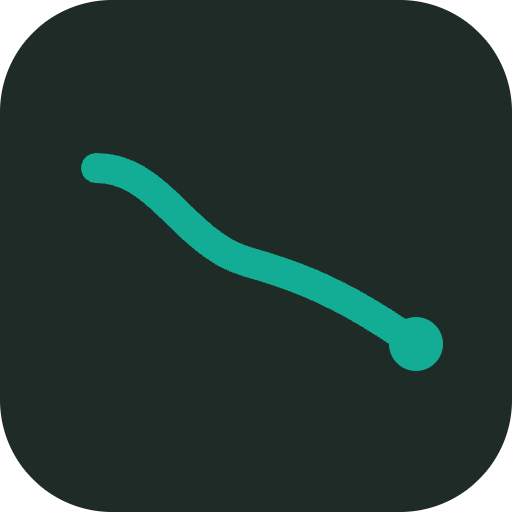
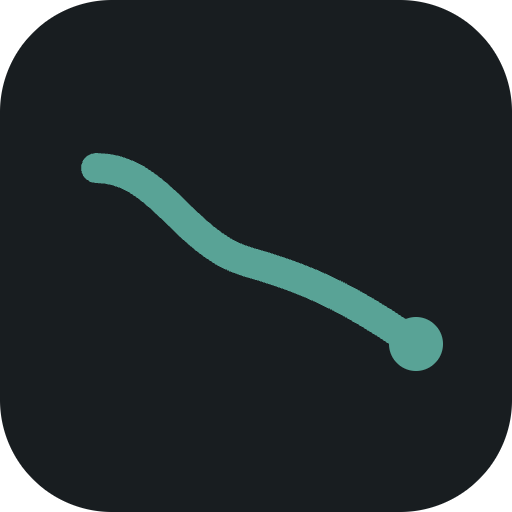
Mute the green
Same hue, about a third less chroma, a step darker. It was the one
saturated thing left on a screen that had just been quietened
everywhere else, so it read as loud rather than as the accent. The
darker step is a bonus: contrast against white goes from 3.97:1 to
5.29:1.

The two status greens come down with it, or the deltas would have sat
beside the trace looking like a different palette. The goal purple
stays where it is — its chroma is what keeps it separable from the
trace for a colour-blind reader, and it appears once, dashed and
labelled.

That puts the trace under the categorical chroma floor a multi-series
palette would need. Noted in NOTES with the reasoning: one series, and
the only other mark on the chart carries its own label.

Claude-Session: https://claude.ai/code/session_016d59AqZQ43XPJrf2bBTCk5

Changed region(s): [[0.1562, 0.2812, 0.875, 0.75]]

diff --git a/src/app/globals.css b/src/app/globals.css
@@ -30,18 +30,25 @@
 
   --on-tint: #181d20;
 
-  --trace: #00907f; /* weight line */
+  /* The one colour on screen, so it is a quiet one: same teal hue, about a
+     third less chroma and a step darker, which also lifts it from 3.97:1 to
+     5.29:1 against white. Deliberately under the categorical chroma floor a
+     multi-series palette would need — there is one series here, and the goal
+     line beside it is dashed and labelled. */
+  --trace: #2e776b; /* weight line */
+  /* Left saturated on purpose: it is what keeps the goal line separable from
+     the trace for a deutan reader (ΔE 8.5). It appears once, dashed. */
   --goal: #9a3ba0; /* goal horizon */
 
-  --down: #2f6f45; /* moving toward goal */
-  --up: #a2472c; /* moving away */
+  --down: #3a6d4a; /* moving toward goal */
+  --up: #97503c; /* moving away */
 
   /* Macro breakdown. Paired with gram labels, never carrying meaning alone. */
   --protein: #4e86e0;
   --carbs: #bf8c22;
   --fat: #ae5fb0;
 
-  --focus: #00907f;
+  --focus: #2e776b;
   --lift: 0 1px 2px rgb(20 26 30 / 0.04), 0 4px 16px rgb(20 26 30 / 0.05);
   --lift-sm: 0 1px 2px rgb(20 26 30 / 0.05);
 
@@ -67,17 +74,17 @@
   --ink-faint: #737e83;
   --rule: #262e33;
 
-  --trace: #12ad94;
+  --trace: #59a396;
   --goal: #be6fc9;
 
-  --down: #63c187;
-  --up: #e08a6a;
+  --down: #7ebc90;
+  --up: #d28974;
 
   --protein: #5a8ce6;
   --carbs: #c0871f;
   --fat: #be6480;
 
-  --focus: #12ad94;
+  --focus: #59a396;
   --lift: 0 1px 2px rgb(0 0 0 / 0.3), 0 4px 16px rgb(0 0 0 / 0.25);
   --lift-sm: 0 1px 2px rgb(0 0 0 / 0.3);
 
@@ -114,9 +121,9 @@ body {
      fill, so this gives the panels something to sit on without adding colour
      anyone would notice as colour. */
   background-image:
-    radial-gradient(58% 42% at 8% 4%, rgb(0 144 127 / 0.13) 0%, transparent 62%),
-    radial-gradient(52% 40% at 96% 22%, rgb(154 59 160 / 0.09) 0%, transparent 58%),
-    radial-gradient(64% 44% at 50% 102%, rgb(0 144 127 / 0.09) 0%, transparent 60%);
+    radial-gradient(58% 42% at 8% 4%, rgb(46 119 107 / 0.13) 0%, transparent 62%),
+    radial-gradient(52% 40% at 96% 22%, rgb(154 59 160 / 0.07) 0%, transparent 58%),
+    radial-gradient(64% 44% at 50% 102%, rgb(46 119 107 / 0.09) 0%, transparent 60%);
   background-attachment: fixed;
   color: var(--ink);
   font-family: var(--font-manrope), system-ui, sans-serif;
@@ -282,9 +289,9 @@ body {
   inset: -36px;
   background-color: var(--ground);
   background-image:
-    radial-gradient(58% 42% at 8% 4%, rgb(0 144 127 / 0.13) 0%, transparent 62%),
-    radial-gradient(52% 40% at 96% 22%, rgb(154 59 160 / 0.09) 0%, transparent 58%),
-    radial-gradient(64% 44% at 50% 102%, rgb(0 144 127 / 0.09) 0%, transparent 60%);
+    radial-gradient(58% 42% at 8% 4%, rgb(46 119 107 / 0.13) 0%, transparent 62%),
+    radial-gradient(52% 40% at 96% 22%, rgb(154 59 160 / 0.07) 0%, transparent 58%),
+    radial-gradient(64% 44% at 50% 102%, rgb(46 119 107 / 0.09) 0%, transparent 60%);
   background-attachment: fixed;
   filter: url(#liquid-warp);
   opacity: 0.92;

diff --git a/src/app/layout.tsx b/src/app/layout.tsx
@@ -24,7 +24,7 @@ export const metadata: Metadata = {
 };
 
 export const viewport: Viewport = {
-  themeColor: "#f6f8f5",
+  themeColor: "#f7f9f9",
   // Without this, `env(safe-area-inset-*)` resolves to 0 on iPhone and the
   // bottom bar sits under the home indicator.
   viewportFit: "cover",

diff --git a/NOTES.md b/NOTES.md
@@ -167,6 +167,12 @@ it the app still works and the button explains why it is disabled.
 
 ## Look
 
+- The trace teal is deliberately under the `dataviz` validator's categorical
+  chroma floor (0.075 against a floor of 0.1). That floor exists to keep many
+  series apart by hue; there is one series here, and the goal line beside it is
+  dashed and directly labelled. Muting it also took contrast from 3.97:1 to
+  5.29:1. `--goal` was left saturated on purpose — it is what holds ΔE 8.5
+  separation from the trace for a deutan reader.
 - The neutral ramp is neutral. It used to carry a green cast at every step,
   which put a second green on screen arguing with the trace and read as olive
   rather than quiet. Colour now means data; everything else is graphite.
